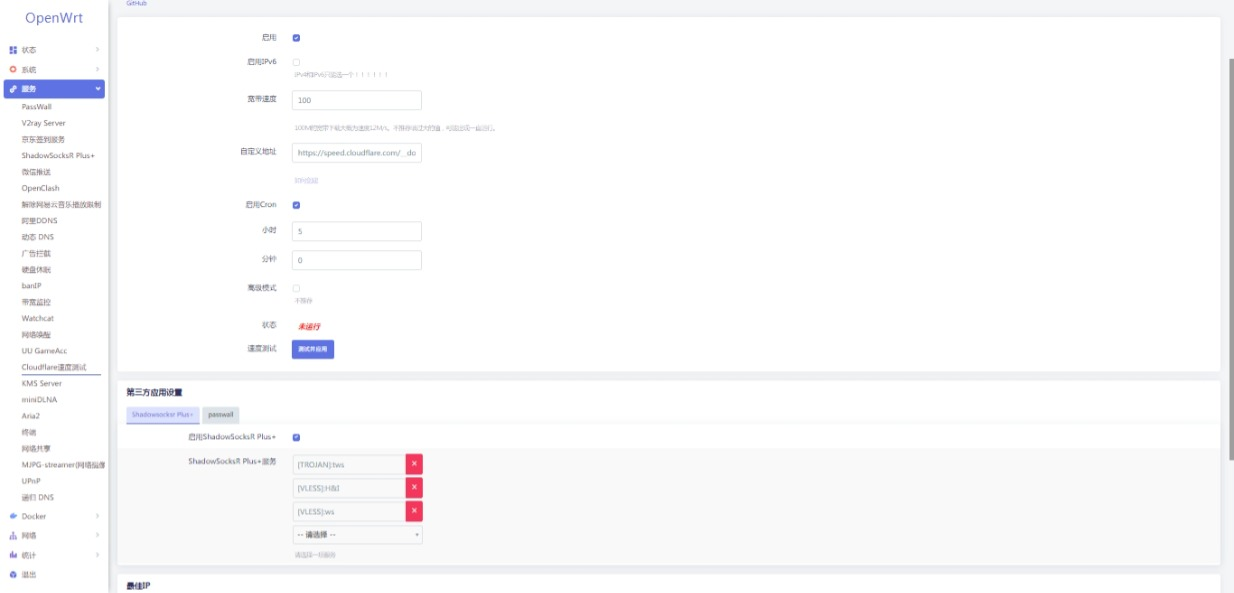
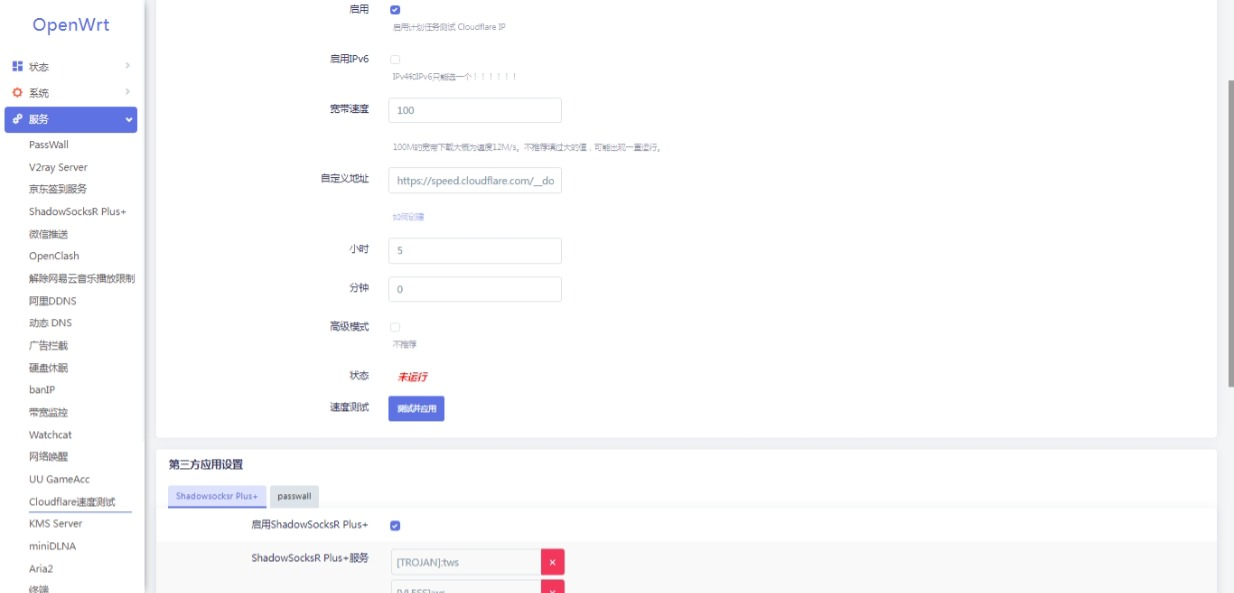
Upgrade to v1.1 Remove Cron Enabled

diff --git a/README.md b/README.md
@@ -2,6 +2,24 @@
 
 [![Upload Release Asset](https://github.com/mingxiaoyu/luci-app-cloudflarespeedtest/actions/workflows/build.yml/badge.svg)](https://github.com/mingxiaoyu/luci-app-cloudflarespeedtest/actions/workflows/build.yml)
 
+## Cloudflare speed test for LuCI / 适用于 LuCI 的 loudflare speed test插件
+- 一个用于定时执行Cloudflare IP 速度测试的插件。集成SSR+和PASSWALL替换IP
+- [Download / 下载 ipk](https://github.com/mingxiaoyu/luci-app-cloudflarespeedtest/releases)
+
+## Depends / 依赖
+- [openwrt-cdnspeedtest](https://github.com/immortalwrt-collections/openwrt-cdnspeedtest)
+
+## Compile / 编译
+```bash
+
+#compile package only
+make package/luci-app-cloudflarespeedtest/compile v=99
+
+#compile
+make menuconfig
+#choose LuCI ---> 3. Applications  ---> <*> luci-app-cloudflarespeedtest..... for LuCI ----> save
+make V=99
+```
 
  ![overview](https://github.com/mingxiaoyu/luci-app-cloudflarespeedtest/blob/main/doc/overview.jpeg?raw=true)
  
